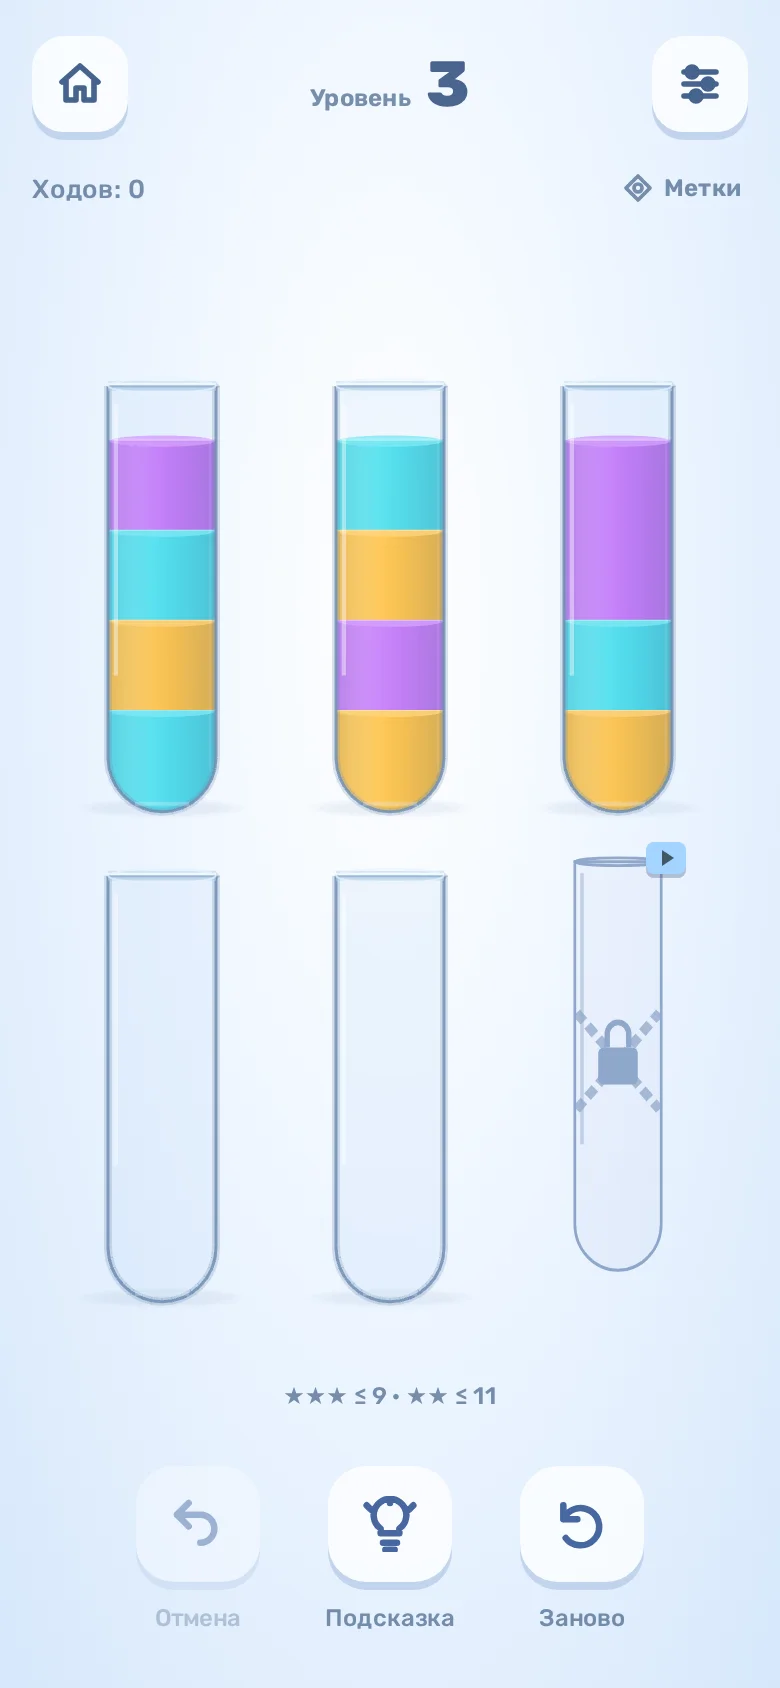
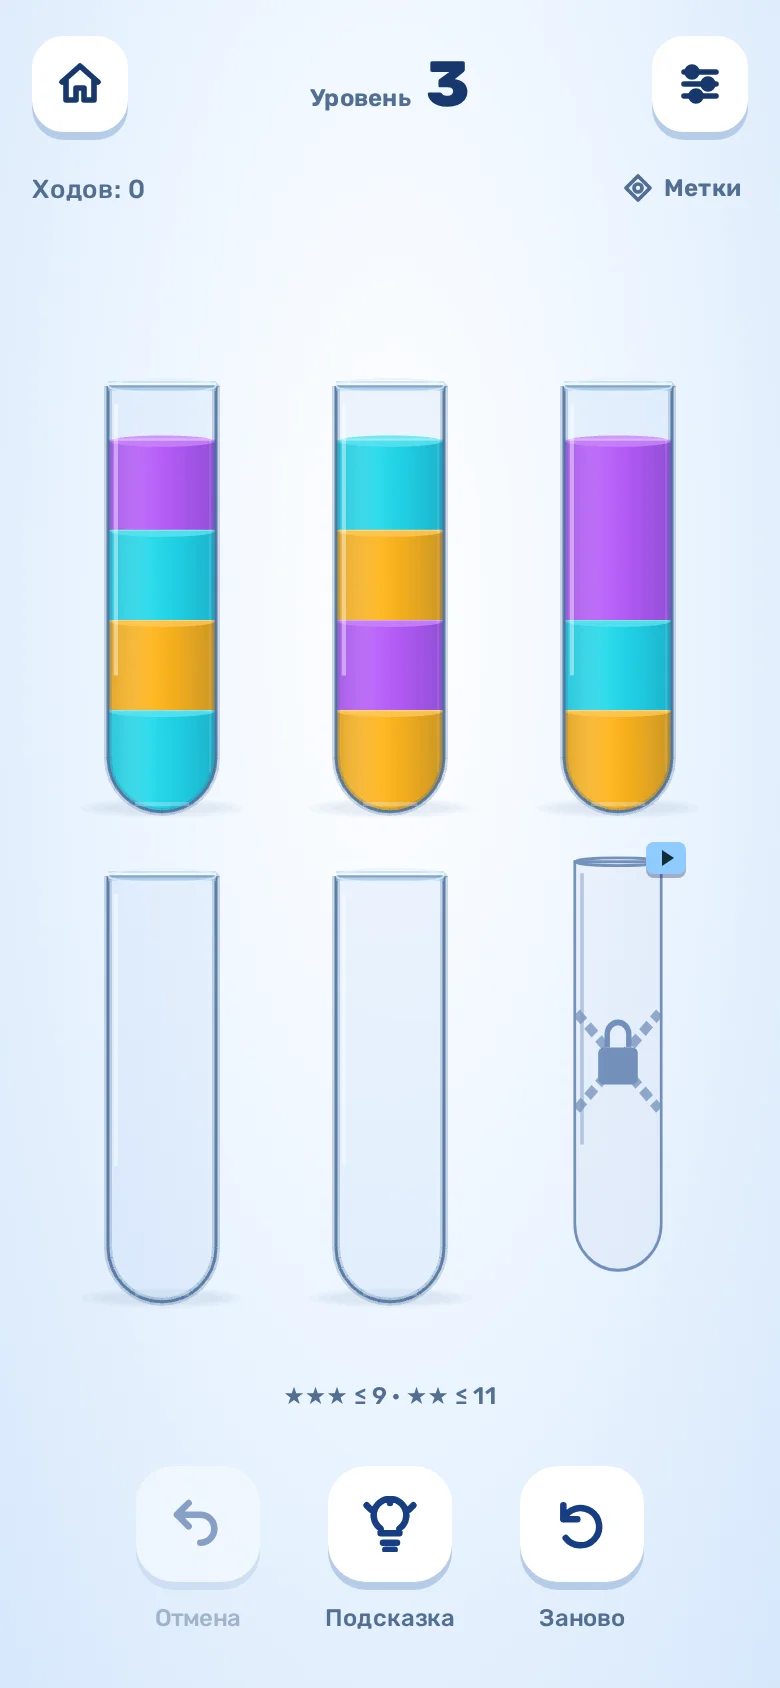
docs: verify 0.15 APK and capture settled theme colours [skip ci]

diff --git a/docs/PLAYTEST_PLAN_13.md b/docs/PLAYTEST_PLAN_13.md
@@ -4,7 +4,7 @@
 
 1. **Навигация — пакет 0.13.** Главное меню с Играть/Продолжить, уровнями и настройками. Продолжить сохраняет попытку; выбор любого уровня сбрасывает выбранную попытку. Заново всегда требует подтверждения. Открытая дополнительная колба и пройденные уровни сохраняются.
 2. **Звёзды и рекламная колба — пакет 0.14 выполнен.** Общие пороги ходов с дополнительной колбой и без: три звезды за базовый оптимум или меньше, две за небольшой запас, одна за любое завершение. Проверить оптимумы и реальную пользу колбы. Лучший результат сохраняется. На уровнях с двумя цветами колбы нет; с тремя и более она видна на поле закрытой, с цепочкой/замком и видео-значком. Нажатие открывает предложение рекламы; выдача только после успешного rewarded. Отмена/ошибка сохраняют попытку. Подключён Yandex Mobile Ads 8.6.0; preview использует demo-rewarded-yandex. Проверка показала: абсолютный оптимум с колбой одинаков на всех 12 уровнях; колба даёт пространство для манёвра. Подробности и ограничения — [STARS_REWARDED_14.md](STARS_REWARDED_14.md).
-3. **Конкурентный разбор и оформление.** Исследовать water sort и другие casual-игры. Пользователь отверг бежевый, serif и стандартные панели 0.12. Сначала конкретные варианты нашего поля и главного меню, затем согласованное оформление всех экранов. Оболочка меню 0.13 — функциональный этап, а не новое утверждённое художественное направление. [Разбор и два варианта](DESIGN_REVIEW_15.md) подготовлены на реальном интерфейсе: A — синий предметный casual, B — светлая студия. Пользователь выбрал A и запросил предварительные темы. Оформление и четыре темы перенесены в [0.15](THEMES_15.md).
+3. **Конкурентный разбор и оформление — пакет 0.15 выполнен.** Исследовать water sort и другие casual-игры. Пользователь отверг бежевый, serif и стандартные панели 0.12. Сначала конкретные варианты нашего поля и главного меню, затем согласованное оформление всех экранов. Оболочка меню 0.13 — функциональный этап, а не новое утверждённое художественное направление. [Разбор и два варианта](DESIGN_REVIEW_15.md) подготовлены на реальном интерфейсе: A — синий предметный casual, B — светлая студия. Пользователь выбрал A и запросил предварительные темы. Оформление и четыре темы перенесены в [0.15](THEMES_15.md).
 4. **Материальные награды звуком и эффектом.** Убрать электронные/pluck акценты собранной колбы и уровня. Стекло, вода, пробка; отдельная значимость финала. При победе пробки вылетают, цветные фонтаны пересекаются на экране и затухают, не превращаясь в грязное смешение. Содержимое остаётся собранным. Эффект короткий, без задержки Дальше и без повторного салюта при загрузке. После победы — звёзды.
 
 Каждый пакет заканчивается проверяемой Android-сборкой. Никакие неподключённые реклама/звёзды или будущие рекорды не считаются реализованными из-за их упоминания в плане.

diff --git a/docs/THEMES_15.md b/docs/THEMES_15.md
@@ -29,8 +29,14 @@
 
 ## Проверки
 
-29 core-тестов и 24 независимые проверки оптимумов проходят. Полный браузерный набор содержит 87 сценариев, включая четыре новых: сохранение всех тем без изменения попытки, прежняя светлая настройка, отказ записи, доступность в низком landscape и reduced motion. Два прежних сценария светлой темы теперь выбирают «Лёд» вместо удалённого переключателя. После последней правки отдельно повторены связанные проверки; окончательный полный набор выполняется Android CI.
+29 core-тестов и 24 независимые проверки оптимумов проходят. Полный браузерный набор содержит 87 сценариев, включая четыре новых: сохранение всех тем без изменения попытки, прежняя светлая настройка, отказ записи, доступность в низком landscape и reduced motion. Два прежних сценария светлой темы теперь выбирают «Лёд» вместо удалённого переключателя. После последней правки отдельно повторены связанные проверки. Полный набор из 87 сценариев прошёл в GitHub Actions 40495114310.
 
-Сняты 28 экранов настоящего production build: главное меню, поле, настройки и рекламное предложение в каждой теме, плотный уровень на 320×480 и 568×320, четыре выбранных состояния оформления на 320×480 без переполнения подписей. `tools/capture-themes-15.mjs` проверяет зоны основных действий и закрытой колбы, ошибки JS и границы. Снимки/журнал — `audits/themes-15/`. Подмены CSS или успешного SDK в этих снимках нет.
+Сняты 28 экранов настоящего production build: главное меню, поле, настройки и рекламное предложение в каждой теме, плотный уровень на 320×480 и 568×320, четыре выбранных состояния оформления на 320×480 без переполнения подписей. `tools/capture-themes-15.mjs` проверяет зоны основных действий и закрытой колбы, ошибки JS и границы. Снимки/журнал — `audits/themes-15/`. Подмены CSS или успешного SDK в этих снимках нет. Конечные кадры снимаются с animations: disabled, чтобы CSS fade не делал статичный снимок полупрозрачным. Это настройка захвата, не отключение анимации в игре.
 
 Физический Android, фактический показ рекламы и длительное чтение на телефоне пока не проверены. Новый материальный звук и победные фонтаны относятся к следующему пакету; здесь они не заявлены реализованными. Preview APK использует демонстрационную rewarded-рекламу, как 0.14.
+
+## APK
+
+[GitHub Actions 40495114310](https://github.com/DanilaH/watery-water-sort/actions/runs/40495114310) завершён успешно: core, оптимумы, 87 browser, production build и assembleDebug. Код сборки: `e82ca64a17ae32a8c20516a345adb5b9952a2d85`.
+
[1 lines of base64/hex data omitted]
